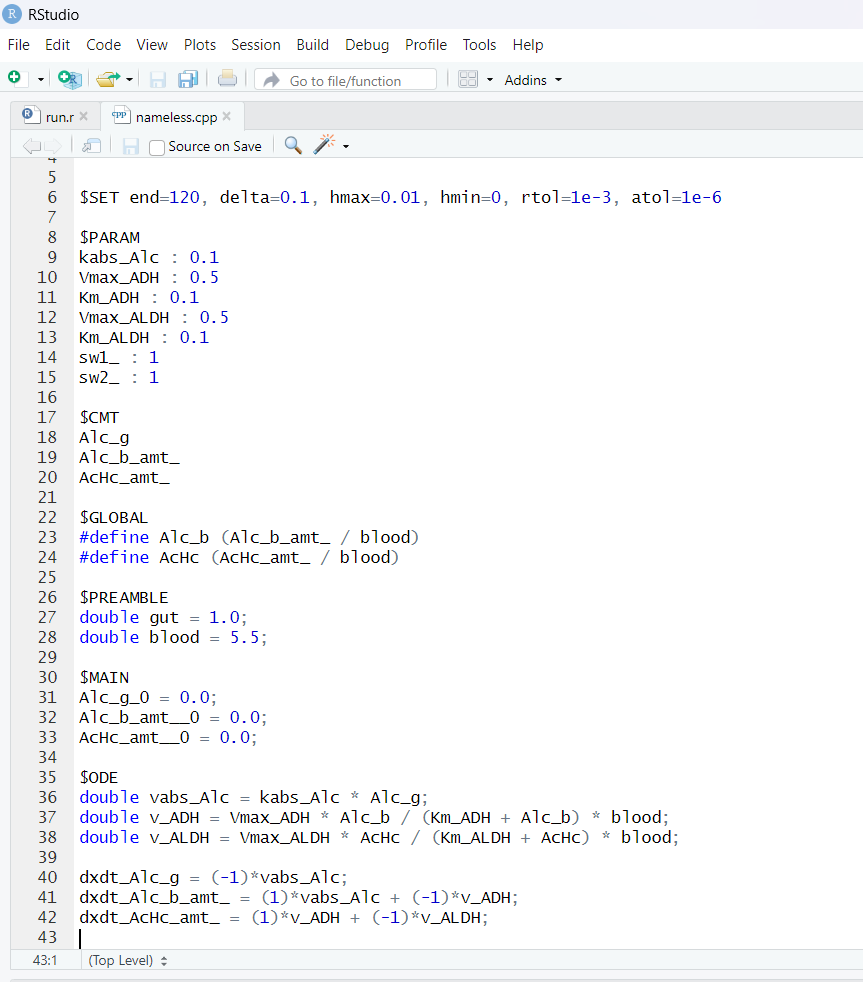
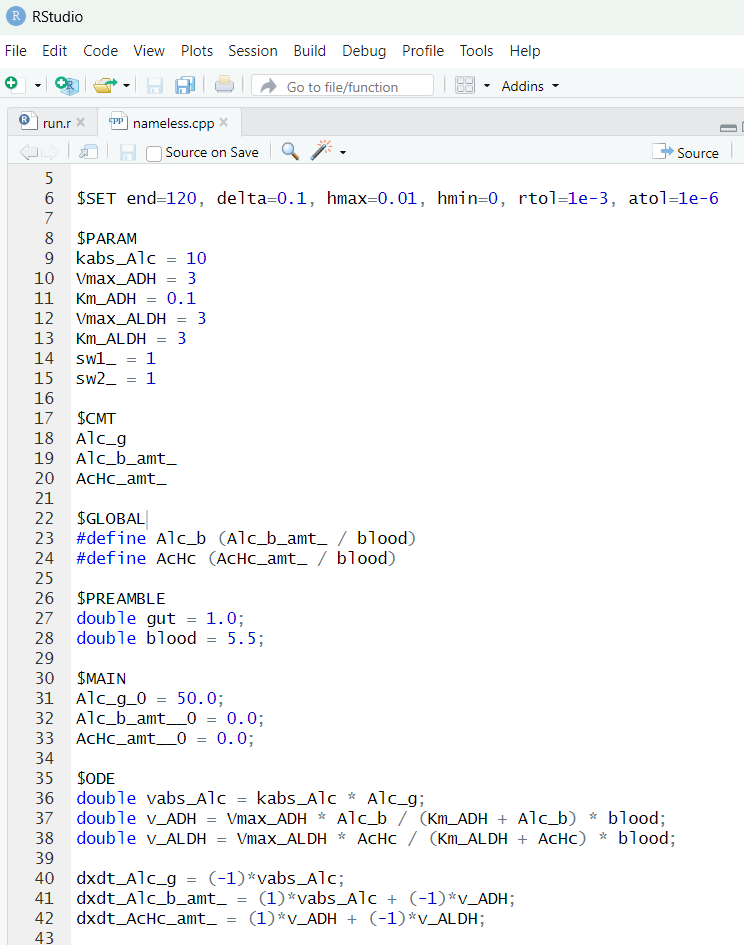
fix code in model formats 1

Changed region(s): [[0.0, 0.0, 1.0, 1.0], [0.6801, 0.0307, 0.7419, 0.0614]]

diff --git a/content/model-formats-for-systems-pharmacology-1/code/mrgsolve/nameless.cpp b/content/model-formats-for-systems-pharmacology-1/code/mrgsolve/nameless.cpp
@@ -6,13 +6,13 @@
 $SET end=120, delta=0.1, hmax=0.01, hmin=0, rtol=1e-3, atol=1e-6
 
 $PARAM
-kabs_Alc : 0.1 
-Vmax_ADH : 0.5 
-Km_ADH : 0.1 
-Vmax_ALDH : 0.5 
-Km_ALDH : 0.1 
-sw1_ : 1
-sw2_ : 1
+kabs_Alc = 10
+Vmax_ADH = 3
+Km_ADH = 0.1
+Vmax_ALDH = 3
+Km_ALDH = 3
+sw1_ = 1
+sw2_ = 1
 
 $CMT
 Alc_g

diff --git a/content/model-formats-for-systems-pharmacology-1/index.md b/content/model-formats-for-systems-pharmacology-1/index.md
@@ -3,7 +3,7 @@ layout: post.njk
 title: 'Model Formats in Systems Pharmacology. Part 1'
 subtitle: 'The Missing Link Between Biology and Software Engineering'
 date: 2025-08-22
-lastModified: 2025-09-06
+lastModified: 2026-04-23
 description: 'An overview of software and model formats in Systems Pharmacology (QSP) — their strengths and weaknesses, and how engineering practices reveal hidden limits and opportunities.'
 author: Evgeny Metelkin
 authorURL: https://metelkin.me
@@ -119,8 +119,7 @@ $$
 \begin{align}
 \frac{d(Alc_g)}{dt} & = -vabs_{Alc},\\\\
 \frac{d(Alc_b \cdot blood)}{dt} & = vabs_{Alc} - v_{ADH},\\\\
-\frac{d(AcHc \cdot blood)}{dt} & = v_{ADH} - v_{ALDH},\\\\
-\frac{d(Acet \cdot blood)}{dt} & = v_{ALDH}.
+\frac{d(AcHc \cdot blood)}{dt} & = v_{ADH} - v_{ALDH}.
 \end{align}
 $$
 
